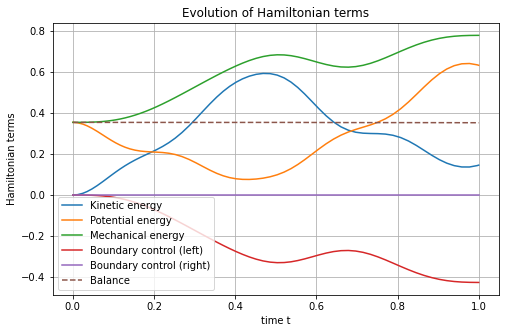
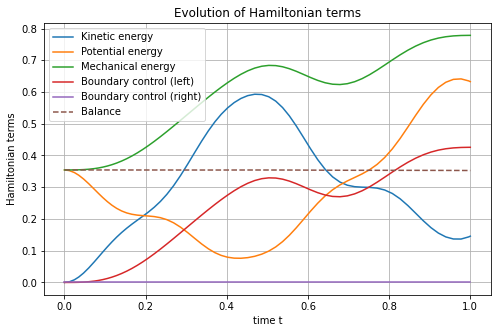
correct sign in balance polt_Hamiltonian

diff --git a/docs/source/started.rst b/docs/source/started.rst
@@ -440,7 +440,7 @@ One can appreciate the *structure-preserving* property by looking at the dashed 
 
 .. math::
 
-    \mathcal{H}^d(t) + \int_0^t u_R(s) y_R(s) {\rm d}s + \int_0^t u_L(s) y_L(s) {\rm d}s
+    \mathcal{H}^d(t) - \int_0^t u_R(s) y_R(s) {\rm d}s - \int_0^t u_L(s) y_L(s) {\rm d}s
 
 .. image:: Hamiltonian-wave-1D-started.png
     :width: 600px
